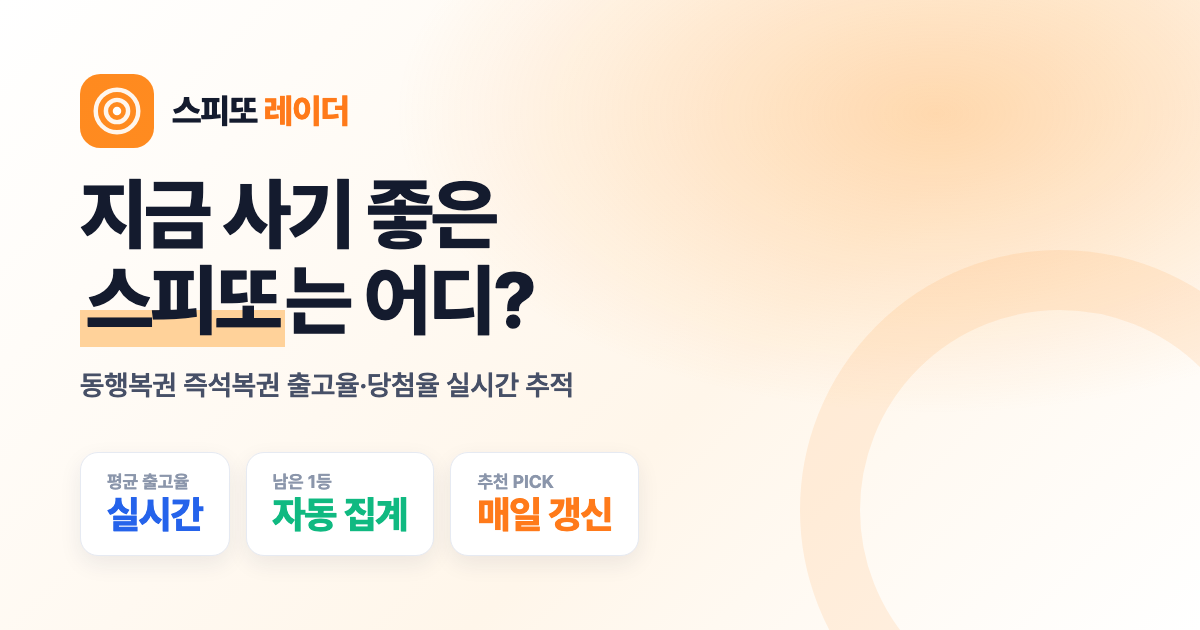
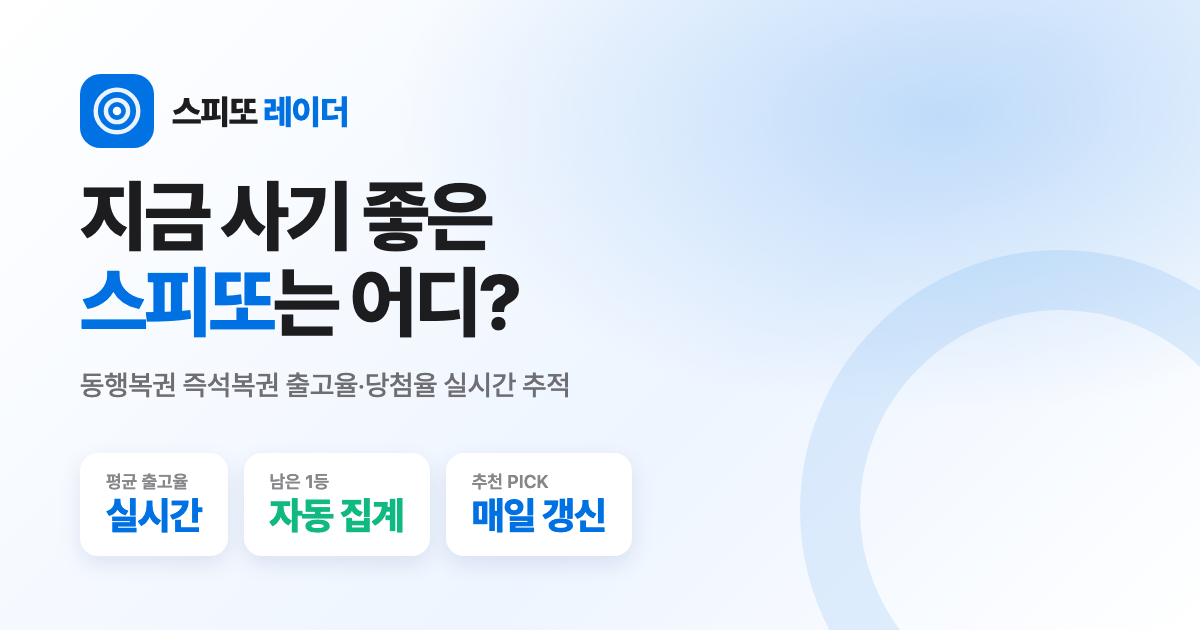
액센트 애플 블루로 변경 + 라벨에 레이더 로고 적용
- 브랜드/액센트 컬러를 애플 블루(#0071e3)로 통일: 히어로 하이라이트, 추천 리본, 로고, 아이브로우, 토글, 맨위로, 링크, theme-color
- 로고/파비콘/OG 이미지 블루로 재생성
- 종류 태그(라벨)에 화이트 레이더 로고 마크 삽입(카드·PICK)

diff --git a/index.html b/index.html
@@ -10,7 +10,7 @@
 <meta name="keywords" content="스피또, 스피또2000, 스피또1000, 스피또500, 스피또 출고율, 스피또 당첨율, 즉석복권, 동행복권, 복권 당첨, 1등 잔여, 스피또 추천 회차" />
 <meta name="author" content="스피또 레이더" />
 <meta name="robots" content="index,follow,max-image-preview:large" />
-<meta name="theme-color" content="#ff7a1a" />
+<meta name="theme-color" content="#0071e3" />
 <link rel="canonical" href="https://speetto-radar.pages.dev/" />
 
 <!-- ===== Icons / PWA ===== -->
@@ -66,7 +66,7 @@
     --ink:#1d1d1f; --ink2:#424245; --muted:#86868b; --faint:#a1a1a6;
     --line:#ededf0; --line-strong:#e2e2e6;
     --slate:#48484a;
-    --brand:#ff7a1a; --brand-2:#ffb43c; --brand-ink:#b25500;
+    --brand:#0071e3; --brand-2:#42a5ff; --brand-ink:#0058b0;
     --amber:#f59e0b; --emerald:#10b981; --rose:#f43f5e;
     --violet:#6d5dfc; --sky:#0071e3;
     --shadow-sm:0 2px 10px rgba(0,0,0,.04);
@@ -101,7 +101,7 @@
   /* ---------- hero ---------- */
   .hero{padding:72px 0 44px;text-align:center;position:relative}
   .eyebrow{display:inline-flex;align-items:center;gap:7px;font-size:13px;font-weight:600;color:var(--brand-ink);
-    background:rgba(255,122,26,.09);padding:7px 15px;border-radius:999px}
+    background:rgba(0,113,227,.10);padding:7px 15px;border-radius:999px}
   .hero h1{margin:20px auto 16px;font-size:clamp(34px,6.4vw,62px);font-weight:700;letter-spacing:-.025em;line-height:1.07;max-width:15ch}
   .hero h1 .hl{color:var(--brand)}
   .hero p{margin:0 auto;max-width:42ch;color:var(--muted);font-size:clamp(17px,2.4vw,21px);font-weight:500;line-height:1.45}
@@ -126,7 +126,7 @@
   .pick .ribbon{display:inline-flex;align-items:center;gap:7px;font-size:13px;font-weight:600;color:#fff;
     background:linear-gradient(135deg,var(--brand),var(--brand-2));padding:7px 15px;border-radius:999px}
   .pick .grid2{display:grid;grid-template-columns:1.1fr .9fr;gap:32px;align-items:center;margin-top:22px}
-  .pick .ptitle{display:flex;align-items:baseline;gap:10px;flex-wrap:wrap}
+  .pick .ptitle{display:flex;align-items:center;gap:10px;flex-wrap:wrap}
   .pick .pname{font-size:16px;font-weight:700}
   .pick .pep{font-size:42px;font-weight:700;letter-spacing:-.03em}
   .pick .preason{margin:16px 0 22px;font-size:19px;color:var(--ink2);line-height:1.55;font-weight:500}
@@ -182,7 +182,8 @@
 
   .chead{display:flex;align-items:center;justify-content:space-between;gap:10px}
   .title{display:flex;align-items:center;gap:10px;flex-wrap:wrap}
-  .gname{font-size:12px;font-weight:700;color:#fff;padding:4px 11px;border-radius:999px;letter-spacing:0}
+  .gname{display:inline-flex;align-items:center;gap:5px;font-size:12px;font-weight:700;color:#fff;padding:4px 11px 4px 8px;border-radius:999px;letter-spacing:0}
+  .gname svg{width:13px;height:13px;flex:none}
   .gname.c2000{background:var(--amber)} .gname.c1000{background:var(--emerald)} .gname.c500{background:var(--rose)}
   .epno{font-size:24px;font-weight:700;letter-spacing:-.03em}
   .price{font-size:14px;color:var(--muted);font-weight:500}
@@ -243,7 +244,7 @@
   /* ---------- back to top ---------- */
   .toTop{position:fixed;right:20px;bottom:20px;width:46px;height:46px;border-radius:50%;z-index:60;
     background:linear-gradient(135deg,var(--brand),var(--brand-2));color:#fff;border:0;cursor:pointer;
-    box-shadow:0 10px 24px rgba(255,122,26,.4);font-size:20px;display:grid;place-items:center;
+    box-shadow:0 10px 24px rgba(0,113,227,.4);font-size:20px;display:grid;place-items:center;
     opacity:0;pointer-events:none;transform:translateY(10px);transition:.2s}
   .toTop.show{opacity:1;pointer-events:auto;transform:translateY(0)}
 
@@ -335,7 +336,7 @@
         <circle cx="20" cy="20" r="2.2" fill="#fff"/>
         <path d="M20 4.5V9M20 31v4.5M4.5 20H9M31 20h4.5" stroke="#fff" stroke-opacity=".9" stroke-width="2.2" stroke-linecap="round"/>
         <defs><linearGradient id="bg" x1="0" y1="0" x2="40" y2="40">
-          <stop stop-color="#ff8a1f"/><stop offset="1" stop-color="#ffb43c"/></linearGradient></defs>
+          <stop stop-color="#0071e3"/><stop offset="1" stop-color="#42a5ff"/></linearGradient></defs>
       </svg>
       <span class="name">스피또 <b>레이더</b><span class="tag">실시간 즉석복권 출고율·당첨율 추적</span></span>
     </div>
@@ -440,7 +441,7 @@
           <circle cx="20" cy="20" r="11.5" stroke="#fff" stroke-opacity=".9" stroke-width="2.2"/>
           <circle cx="20" cy="20" r="6" stroke="#fff" stroke-opacity=".9" stroke-width="2.2"/>
           <circle cx="20" cy="20" r="2.2" fill="#fff"/>
-          <defs><linearGradient id="bg2" x1="0" y1="0" x2="40" y2="40"><stop stop-color="#ff8a1f"/><stop offset="1" stop-color="#ffb43c"/></linearGradient></defs>
+          <defs><linearGradient id="bg2" x1="0" y1="0" x2="40" y2="40"><stop stop-color="#0071e3"/><stop offset="1" stop-color="#42a5ff"/></linearGradient></defs>
         </svg>
         스피또 레이더
       </div>
@@ -462,6 +463,9 @@ const CONFIG = {
 };
 
 const state = { data:null, tab:"ALL", sort:"ep", search:"", saleOnly:false };
+
+// 라벨용 화이트 레이더 로고 마크
+const LOGO_MARK = '<svg viewBox="0 0 40 40" fill="none" xmlns="http://www.w3.org/2000/svg" aria-hidden="true"><circle cx="20" cy="20" r="12" stroke="#fff" stroke-width="3.4"/><circle cx="20" cy="20" r="5.5" stroke="#fff" stroke-width="3.4"/><circle cx="20" cy="20" r="2.2" fill="#fff"/></svg>';
 const TYPES = [
   {cd:"ALL", name:"전체"},
   {cd:"SP2000", name:"스피또2000"},
@@ -527,9 +531,9 @@ function renderPick(){
       <div class="grid2">
         <div>
           <div class="ptitle">
-            <span class="pname ${CCLASS[g.typeCd]||""}">${g.typeName}</span>
+            <span class="gname ${CCLASS[g.typeCd]||""}">${LOGO_MARK}${g.typeName}</span>
             <span class="pep">${g.episode}회</span>
-            <span class="price" style="color:var(--muted);font-weight:700">${fmt(g.price)}원</span>
+            <span class="price" style="color:var(--muted);font-weight:500">${fmt(g.price)}원</span>
           </div>
           <p class="preason">출고율 <b>${g.shipmentRate}%</b>로 물량이 많이 풀렸는데<br>1등이 아직 <b>${fmt(r1.remain)}매(${r1pct}%)</b> 남아있어요.</p>
           <div class="pmetrics">
@@ -610,7 +614,7 @@ function cardHTML(g){
   return `<div class="card ${TCLASS[g.typeCd]||""}">
     <div class="chead">
       <div class="title">
-        <span class="gname ${CCLASS[g.typeCd]||""}">${g.typeName}</span>
+        <span class="gname ${CCLASS[g.typeCd]||""}">${LOGO_MARK}${g.typeName}</span>
         <span class="epno">${g.episode}회</span>
         <span class="price">${fmt(g.price)}원</span>
       </div>